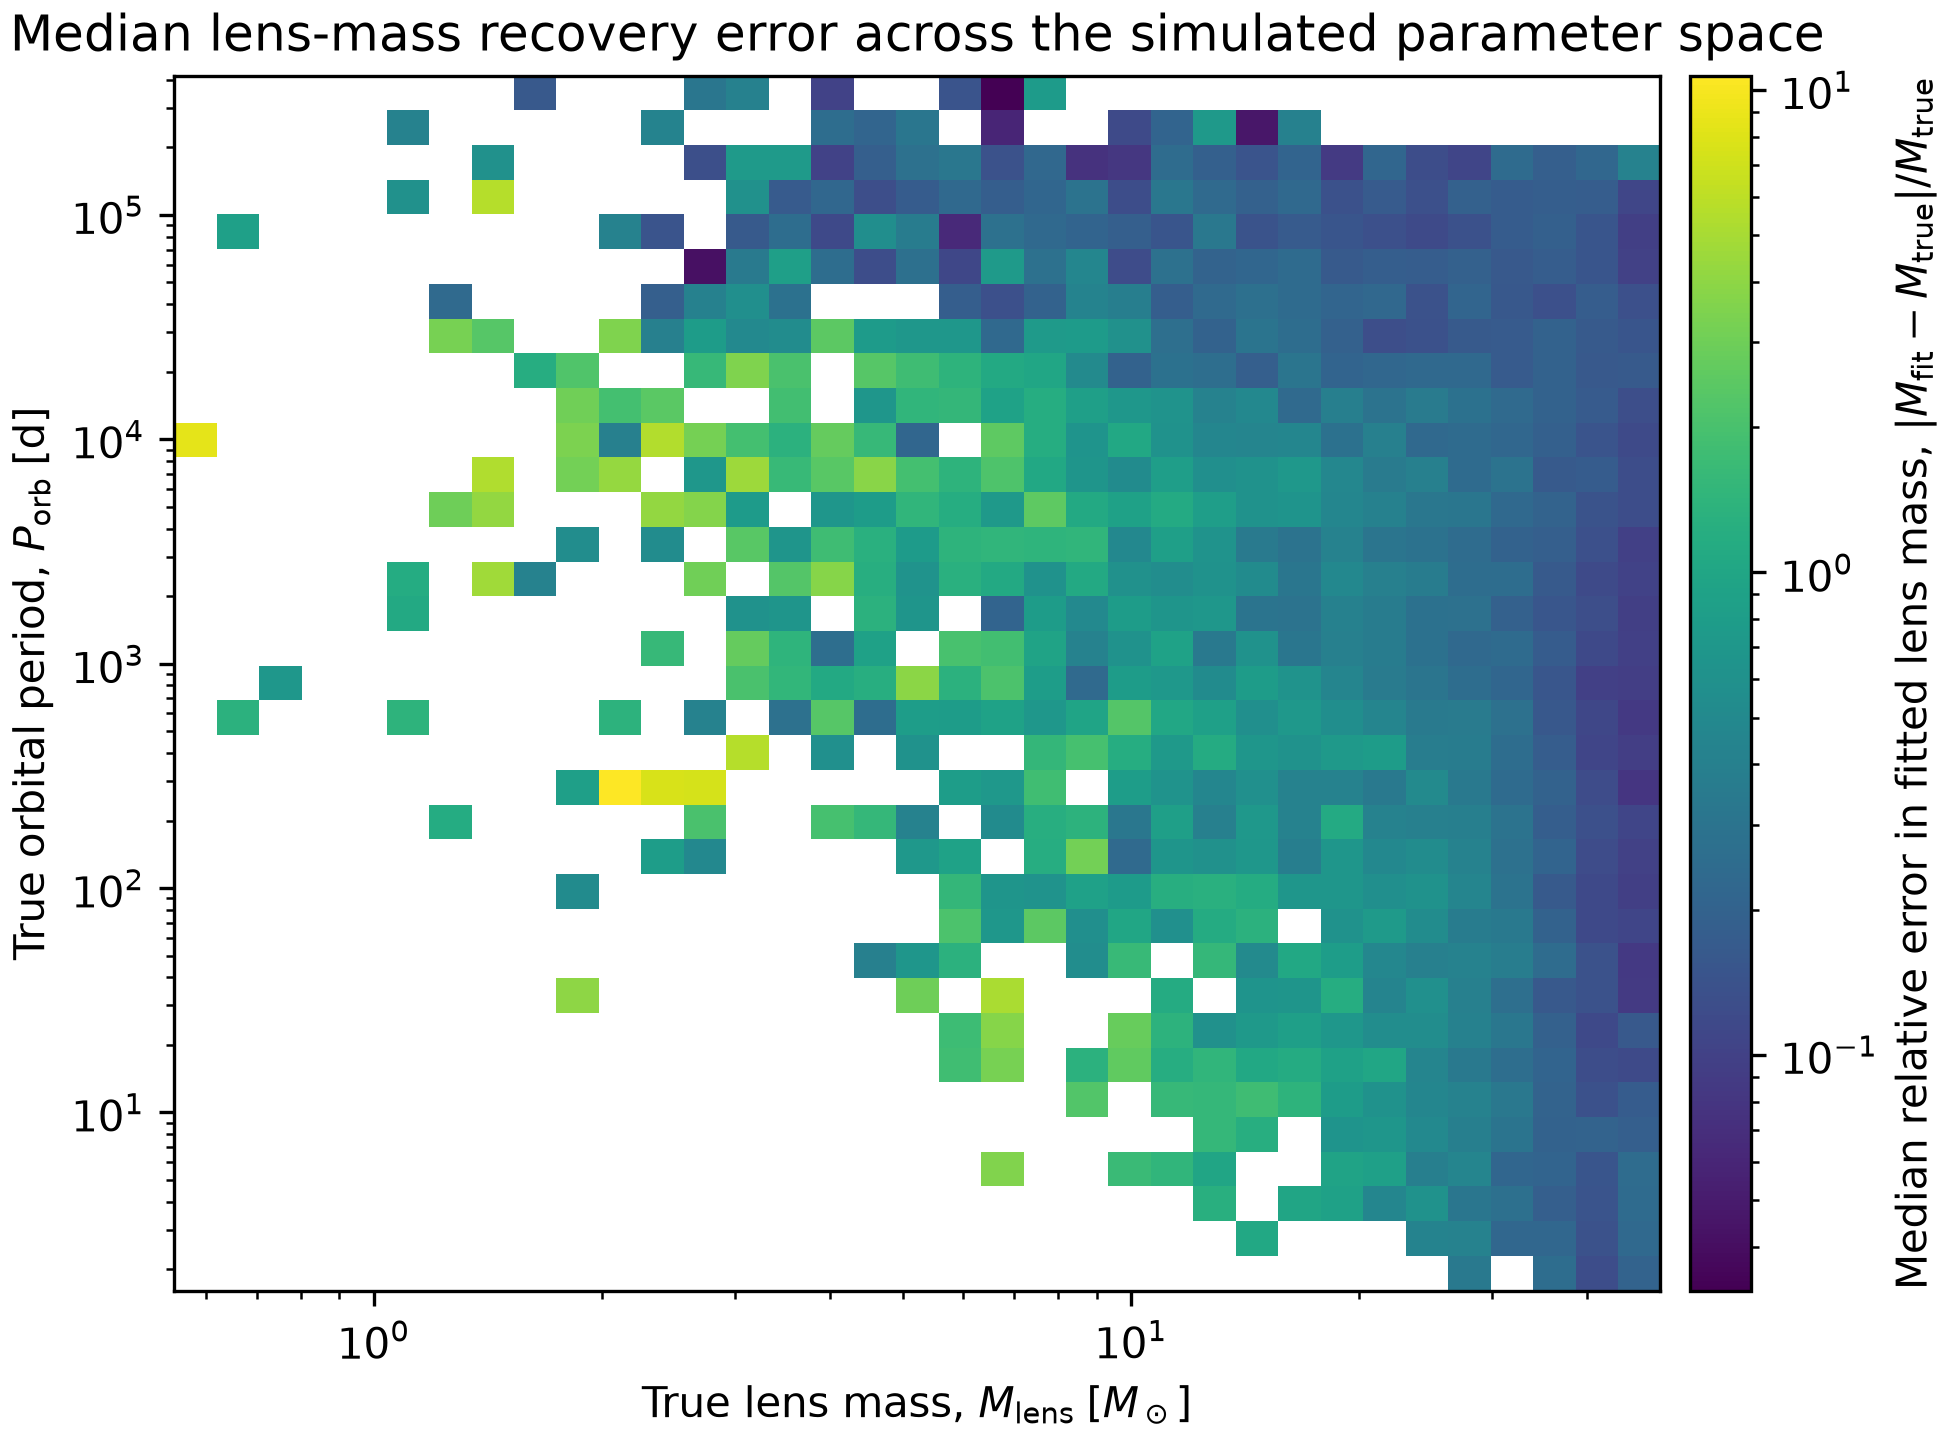
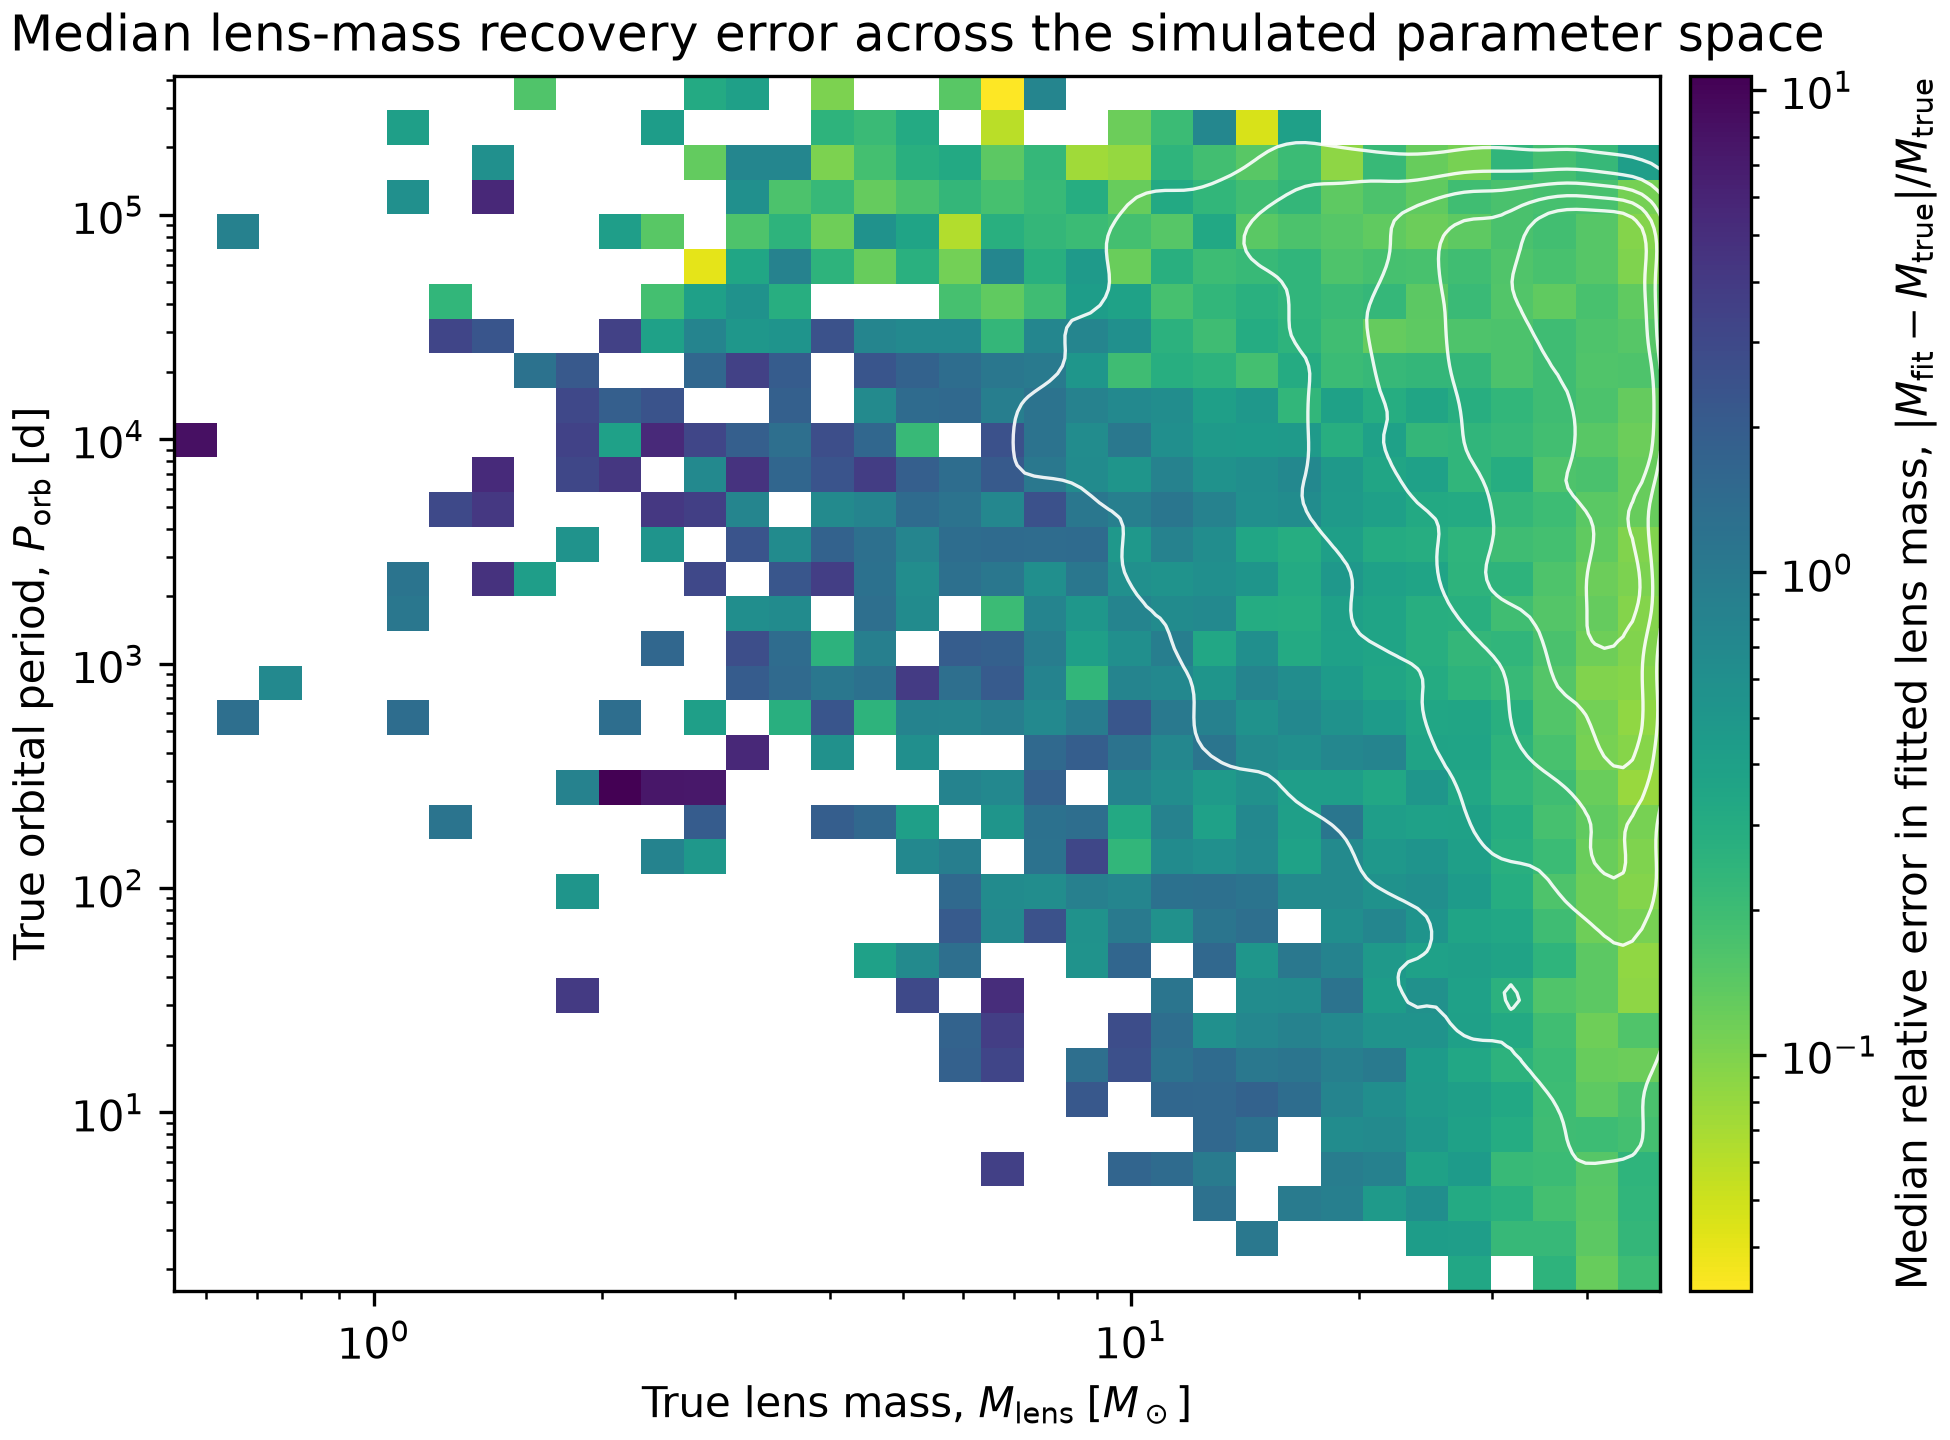
Add contours to relative error plot

diff --git a/src/plot_lens_mass_period_error_scatter.py b/src/plot_lens_mass_period_error_scatter.py
@@ -11,6 +11,7 @@ import numpy
 import pandas
 from matplotlib import pyplot
 from matplotlib.colors import LogNorm
+from scipy.stats import gaussian_kde
 
 
 PROJECT_ROOT = Path(__file__).resolve().parents[1]
@@ -86,16 +87,42 @@ def main():
         mass_edges,
         period_edges,
         plotted_error,
-        cmap="viridis",
+        cmap="viridis_r",
         norm=LogNorm(vmin=colour_floor, vmax=colour_ceiling),
         shading="auto",
         rasterized=True,
     )
+
+    # Estimate density in log coordinates, then transform the contour grid
+    # back to the physical coordinates used by the plot axes.
+    log_mass = numpy.log10(truth_mass[valid])
+    log_period = numpy.log10(truth_period[valid])
+    if numpy.unique(log_mass).size > 1 and numpy.unique(log_period).size > 1:
+        kde = gaussian_kde(numpy.vstack((log_mass, log_period)))
+        kde_mass, kde_period = numpy.meshgrid(
+            numpy.linspace(log_mass.min(), log_mass.max(), 160),
+            numpy.linspace(log_period.min(), log_period.max(), 160),
+        )
+        density = kde(numpy.vstack((kde_mass.ravel(), kde_period.ravel()))).reshape(
+            kde_mass.shape
+        )
+        density_levels = density.max() * numpy.array([0.1, 0.25, 0.4, 0.55, 0.7])
+        axis.contour(
+            10**kde_mass,
+            10**kde_period,
+            density,
+            levels=density_levels,
+            colors="white",
+            linewidths=0.8,
+            alpha=0.9,
+        )
     axis.set_xscale("log")
     axis.set_yscale("log")
     axis.set_xlabel(r"True lens mass, $M_{\mathrm{lens}}\;[M_\odot]$")
     axis.set_ylabel(r"True orbital period, $P_{\mathrm{orb}}\;[\mathrm{d}]$")
-    axis.set_title("Median lens-mass recovery error across the simulated parameter space")
+    axis.set_title(
+        "Median lens-mass recovery error across the simulated parameter space"
+    )
     colourbar = figure.colorbar(histogram, ax=axis, pad=0.02)
     colourbar.set_label(
         r"Median relative error in fitted lens mass, "
